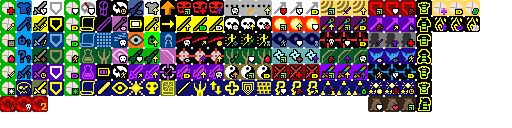
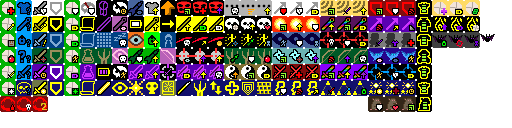
更新天赋图标和暗影蝙蝠图

Changed region(s): [[0.8438, 0.25, 0.9688, 0.375]]

diff --git a/core/src/main/java/com/shatteredpixel/shatteredpixeldungeon/actors/hero/Talent.java b/core/src/main/java/com/shatteredpixel/shatteredpixeldungeon/actors/hero/Talent.java
@@ -153,7 +153,7 @@ public enum Talent {
 	//Freerunner T3
 	EVASIVE_ARMOR(78, 3), PROJECTILE_MOMENTUM(79, 3), SPEEDY_STEALTH(80, 3),
 	//NightWing T3
-	SHARED_RINGS(78, 3), SHARED_TRAP(79, 3), CLOAK_POWERS(80, 3),
+	SHARED_RINGS(91, 3), SHARED_TRAP(92, 3), CLOAK_POWERS(93, 3),
 	//Smoke Bomb T4
 	HASTY_RETREAT(81, 4), BODY_REPLACEMENT(82, 4), SHADOW_STEP(83, 4),
 	//Death Mark T4

diff --git a/core/src/main/java/com/shatteredpixel/shatteredpixeldungeon/ui/HeroIcon.java b/core/src/main/java/com/shatteredpixel/shatteredpixeldungeon/ui/HeroIcon.java
@@ -116,6 +116,7 @@ public class HeroIcon extends Image {
 	public static final int WEAPON_SWAP     = 109;
 	public static final int MONK_ABILITIES  = 110;
 	public static final int MAGICIAN_ABILITIES = 111;
+	public static final int NIGHTWING		= 112;
 
 	public HeroIcon(HeroSubClass subCls){
 		super( Assets.Interfaces.HERO_ICONS );

diff --git a/core/src/main/java/com/shatteredpixel/shatteredpixeldungeon/actors/hero/HeroSubClass.java b/core/src/main/java/com/shatteredpixel/shatteredpixeldungeon/actors/hero/HeroSubClass.java
@@ -42,7 +42,7 @@ public enum HeroSubClass {
 	
 	ASSASSIN(HeroIcon.ASSASSIN),
 	FREERUNNER(HeroIcon.FREERUNNER),
-	NIGHTWING(HeroIcon.NONE),
+	NIGHTWING(HeroIcon.NIGHTWING),
 	
 	SNIPER(HeroIcon.SNIPER),
 	WARDEN(HeroIcon.WARDEN),
